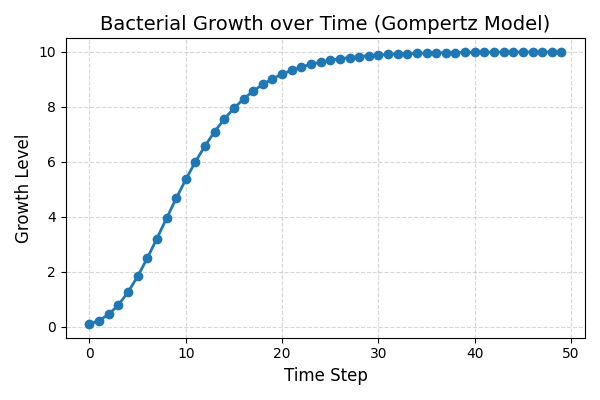
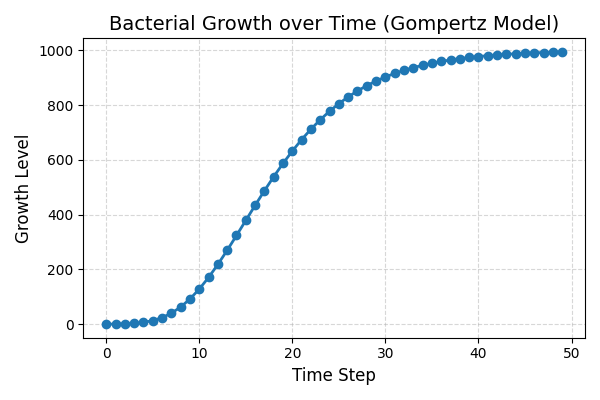
add plotting display

diff --git a/growth_model/templates/index.html b/growth_model/templates/index.html
@@ -3,19 +3,38 @@
 <head>
     <title>Bacterial Growth Modeller</title>
     <style>
-        h1 {
-            font-size: 40px;
-            text-align: center;
-            width: 50%;
-            margin: auto;
-        }  
-        h2{
-            font-size: 20px;
-            text-align: center;
-            width: 40%;
+        /* Center the form */
+        form {
+            width: 400px;
             margin: auto;
         }
-    </style>
+        
+        /* Each slider row as flex */
+        .slider-row {
+            display: flex;
+            align-items: center;
+            margin-bottom: 15px;
+        }
+        
+        /* Label takes fixed width */
+        .slider-row label {
+            width: 150px;
+        }
+        
+        /* Slider takes remaining space */
+        .slider-row input[type=range] {
+            flex: 1;
+        }
+        
+        /* Number display: fixed width, slightly right-shifted */
+        .slider-row span {
+            display: inline-block;
+            width: 60px; /* fixed width prevents jumping */
+            text-align: right; /* shift numbers slightly to the right */
+            margin-left: 10px;
+            font-family: monospace; /* optional, makes width more consistent */
+        }
+        </style>
 
 </head>
 <body>
@@ -24,18 +43,41 @@
 <h1>
     <form method="POST" action="{% url 'index' %}">
         {% csrf_token %}
-        <label for="initial_density">Initial Density:</label>
-        <input type="text" id="i_denisity" name="i_density" placeholder="0.1"><br><br>
-
-        <label for="platau_density">Platau Density:</label>
-        <input type="text" id="p_density" name="p_density"placeholder="10"><br><br>
-
-        <label for="growth_rate">Growth Rate:</label>
-        <input type="text" id="g_rate" name="g_rate"placeholder="0.2"><br><br>
+        <label for="i_density">Initial Density:</label>
+        <input type="range" id="i_density" name="i_density" placeholder="0.1" min="0.00001" max="1" step="0.01"value="0.1">
+        <span id="i_density_val">0.1</span><br><br>
+        
+        <label for="p_density">Plateau Density:</label>
+        <input type="range" id="p_density" name="p_density" placeholder="10" min="1" max="1000" value="1000">
+        <span id="p_density_val">800</span><br><br>
+        
+        <label for="g_rate">Growth Rate:</label>
+        <input type="range" id="g_rate" name="g_rate" placeholder="0.2" min="0.1" max="1" step="0.01" value="0.15">
+        <span id="g_rate_val">0.15</span><br><br>
+        
 
         <input type="submit" value="Submit">
     </form>
 </h1>
+
+    <script>
+        // Link sliders to their display spans
+        const sliders = [
+            {id: "i_density", display: "i_density_val"},
+            {id: "p_density", display: "p_density_val"},
+            {id: "g_rate", display: "g_rate_val"}
+        ];
+    
+        sliders.forEach(s => {
+            const slider = document.getElementById(s.id);
+            const display = document.getElementById(s.display);
+            slider.addEventListener("input", () => {
+                display.textContent = slider.value;
+            });
+        });
+    </script>
+
+
 
 <h2>
 {% if searched %}
